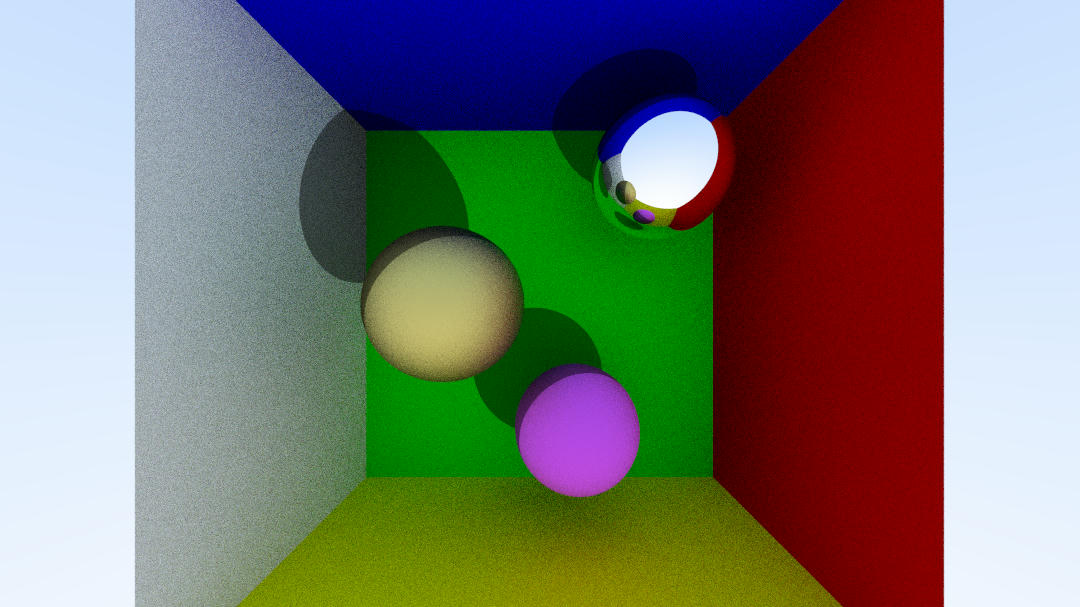
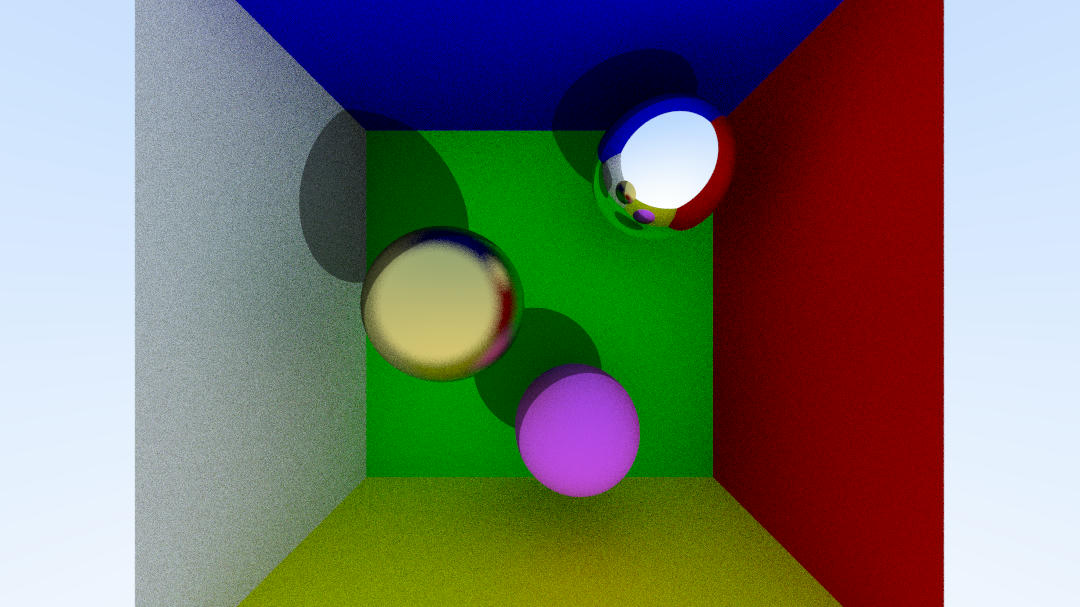
Update Example 3 to show metal material better
fuzz was set to 1.0 which made it no different than a diffuse colour now it reflects some light as well

diff --git a/src/main.rs b/src/main.rs
@@ -147,7 +147,7 @@ fn create_world(aspect_ratio: f64) ->  (Hittables, Camera) {
     world_objects.push(Box::new(Sphere::new(
         Vec3::new(0.6, 0.0, -1.5),
         0.5,
-        material::Material::Metal(Vec3::new(0.7, 0.6, 0.2), 1.0))));
+        material::Material::Metal(Vec3::new(0.7, 0.6, 0.2), 0.3))));
     world_objects.push(Box::new(Sphere::new(
         Vec3::new(-0.9, 1.0, -1.2),
         0.5,
